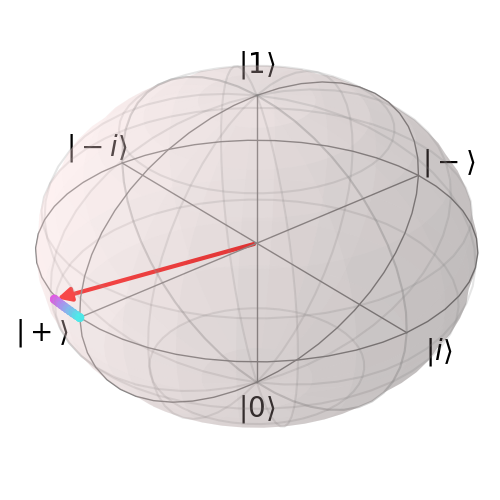
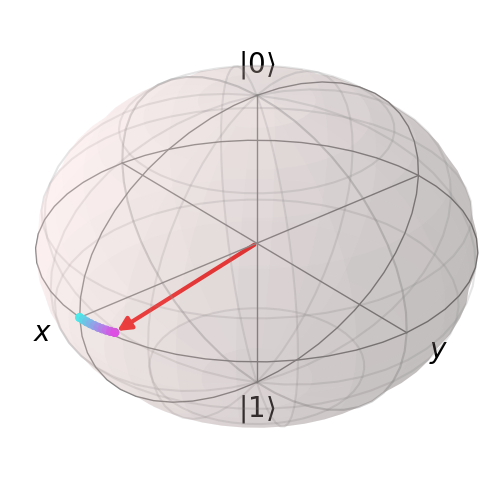
te

diff --git a/anim.py b/anim.py
@@ -8,9 +8,6 @@ import imageio
 def animate_bloch(states, duration=0.05, save_all=False):
 
     b = Bloch()
-    b.xlabel = ['$\\left|+\\right>$', '$\\left|-\\right>$']
-    b.ylabel = ['$\\left|i\\right>$','$\\left|-i\\right>$']
-    b.zlabel = ['$\\left|1\\right>$', '$\\left|0\\right>$']
 
     b.vector_color = ['r']
     b.view = [-40,30]
@@ -45,8 +42,8 @@ def animate_bloch(states, duration=0.05, save_all=False):
 def main():
     states = []
     x = 1 / (np.sqrt(2))
+    #ts = linspace(0,(pi*x*(1/30)),int((pi*x*(1/3))))
     ts = linspace(0,1,10)
-    b.add_states
     for t in ts:
         t = t * pi * x * (1/30)
         states.append((np.exp(-3j*t)*((x*cos(3*x*t)- 1j*sin(3*x*t))*basis(2,0) + x*cos(3*x*t)*basis(2,1))).unit())
